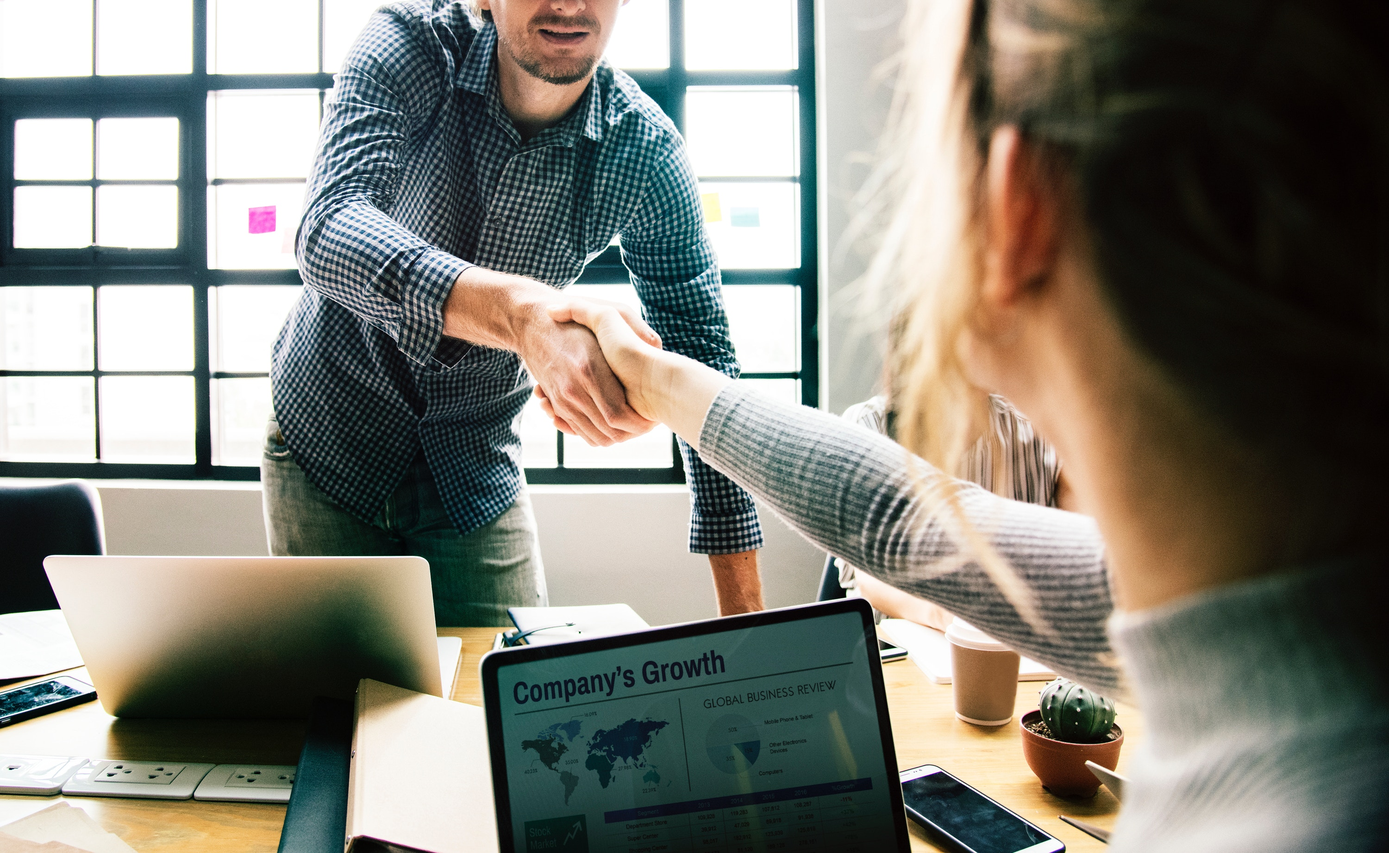
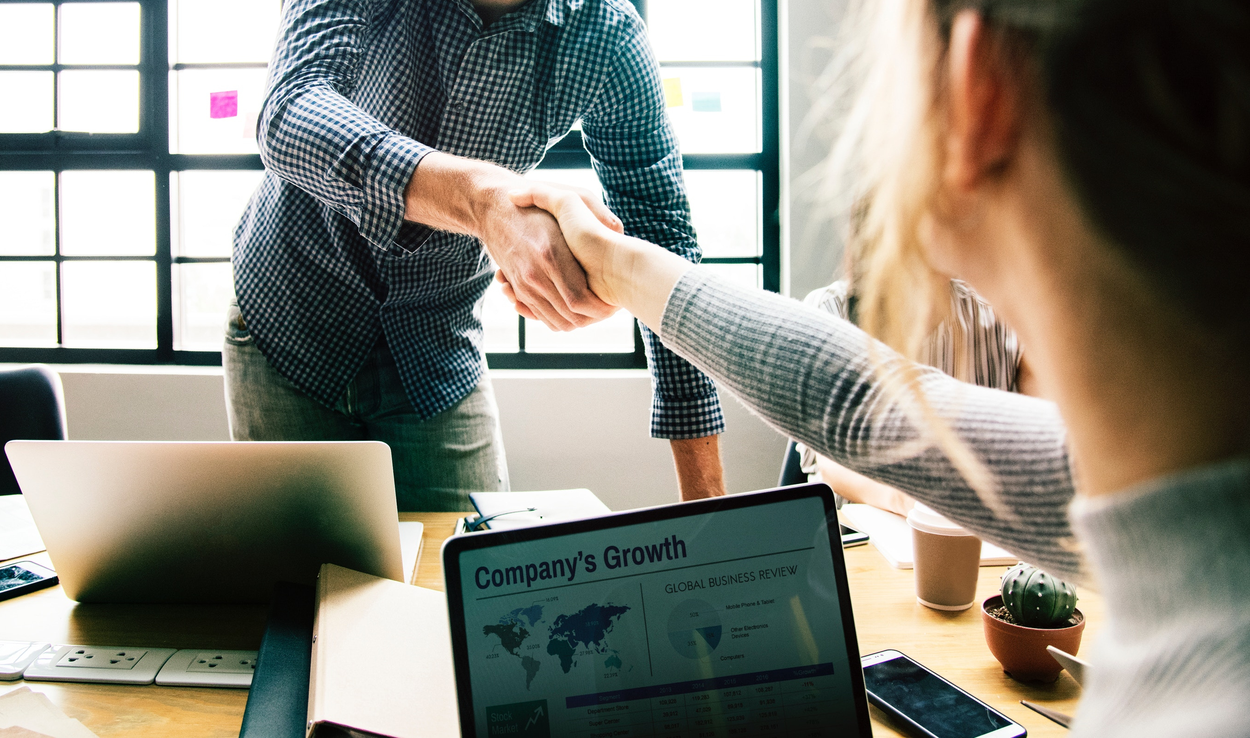
officially fix the image thing with the head

diff --git a/marketing-demo-site/src/modules/periscope-promo/PeriscopePromo.css b/marketing-demo-site/src/modules/periscope-promo/PeriscopePromo.css
@@ -4,7 +4,7 @@
   width: 100%;
   background: linear-gradient(rgba(0, 0, 0, 0.04), rgba(0, 0, 0, 0.04)), url('../../images/business-higher.jpg') no-repeat fixed
     content-box;
-  background-position: 50% 70%;
+  background-position: center;
   background-size: cover;
   /* -webkit-clip-path: polygon(75% 0%, 100% 50%, 75% 100%, 0% 100%, 0 49%, 0% 0%);
   clip-path: polygon(75% 0%, 100% 50%, 75% 100%, 0% 100%, 0 49%, 0% 0%); */
